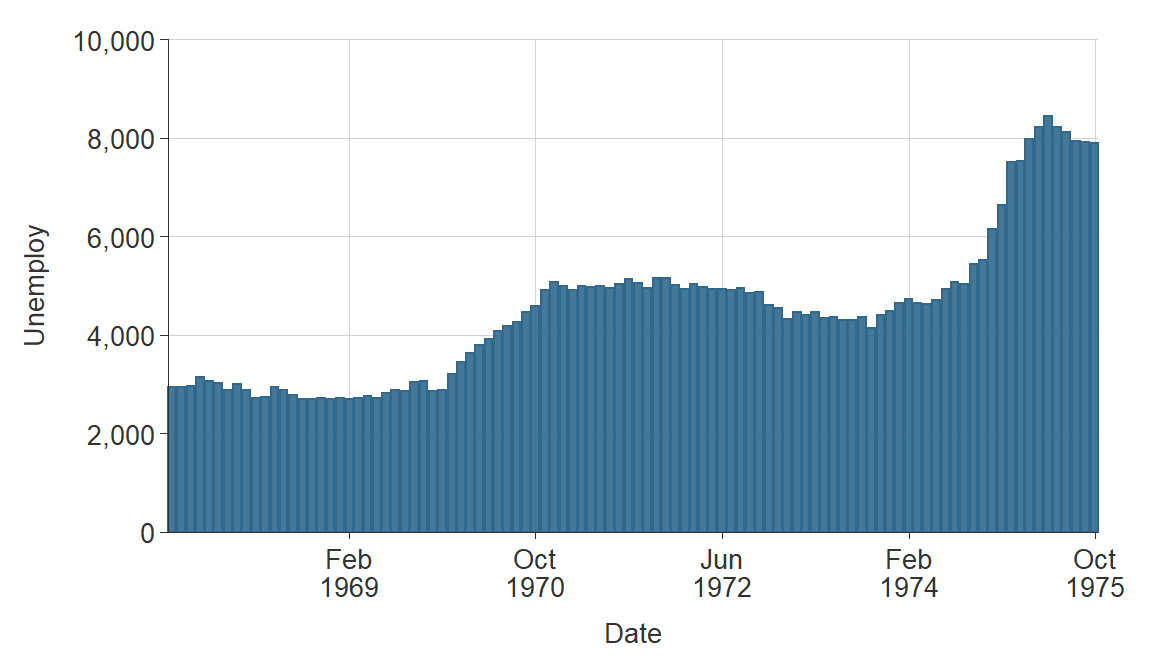
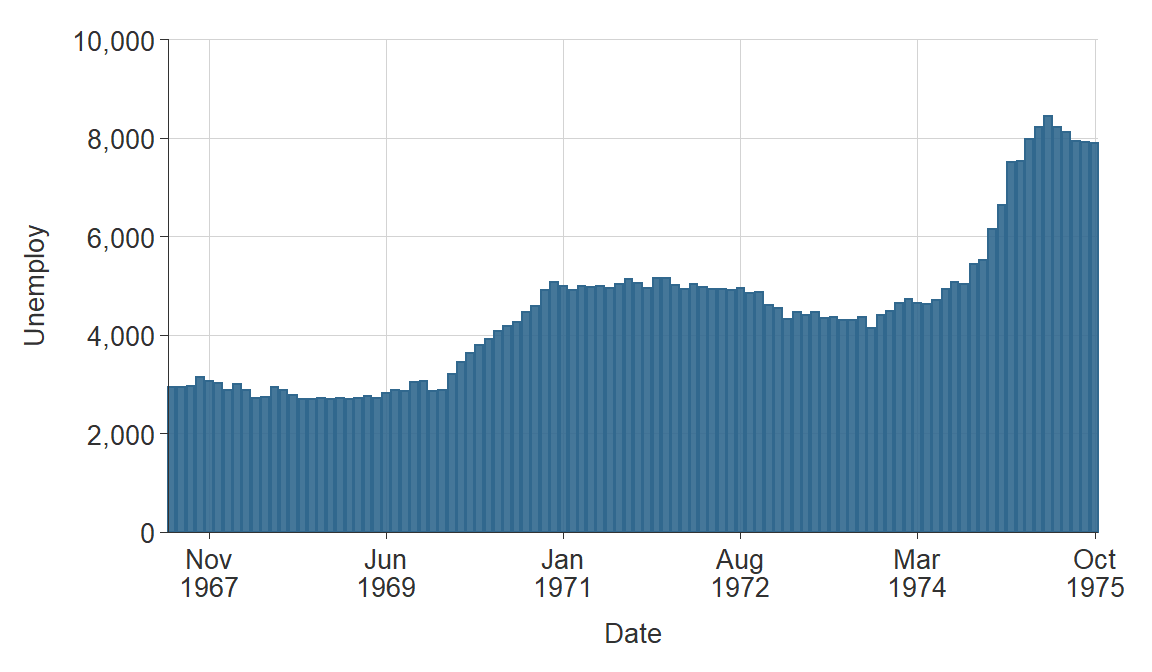
Update

diff --git a/content/post/2022-05-31-ggblanket-demonstrating-some-common-scale-adjustments/index.html b/content/post/2022-05-31-ggblanket-demonstrating-some-common-scale-adjustments/index.html
@@ -60,8 +60,8 @@ library(ggblanket)</code></pre>
          x_breaks_width = &quot;3 years&quot;)</code></pre>
 <p><img src="{{< blogdown/postref >}}index_files/figure-html/unnamed-chunk-8-1.png" width="576" /></p>
 <p>Specify your own specific breaks. In this case, we are using the seq function and working backwards to ensure our last break is the maximum of the data. Note that if your breaks do not cover all of the data, you will need to specify limits of <code>c(NA, NA)</code> or <code>c(NA_Data_, NA_Data_)</code> to include all of the data.</p>
-<pre class="r"><code>x &lt;- economics %&gt;% slice_head(n = 100) %&gt;% pull(date)
-x_breaks &lt;- seq(from = max(x), to = min(x), by = &quot;-20 months&quot;)
+<pre class="r"><code>x_vctr &lt;- economics %&gt;% slice_head(n = 100) %&gt;% pull(date)
+x_breaks &lt;- seq(from = max(x_vctr), to = min(x_vctr), by = &quot;-19 months&quot;)
 
 economics %&gt;% 
   slice_head(n = 100) %&gt;% 
